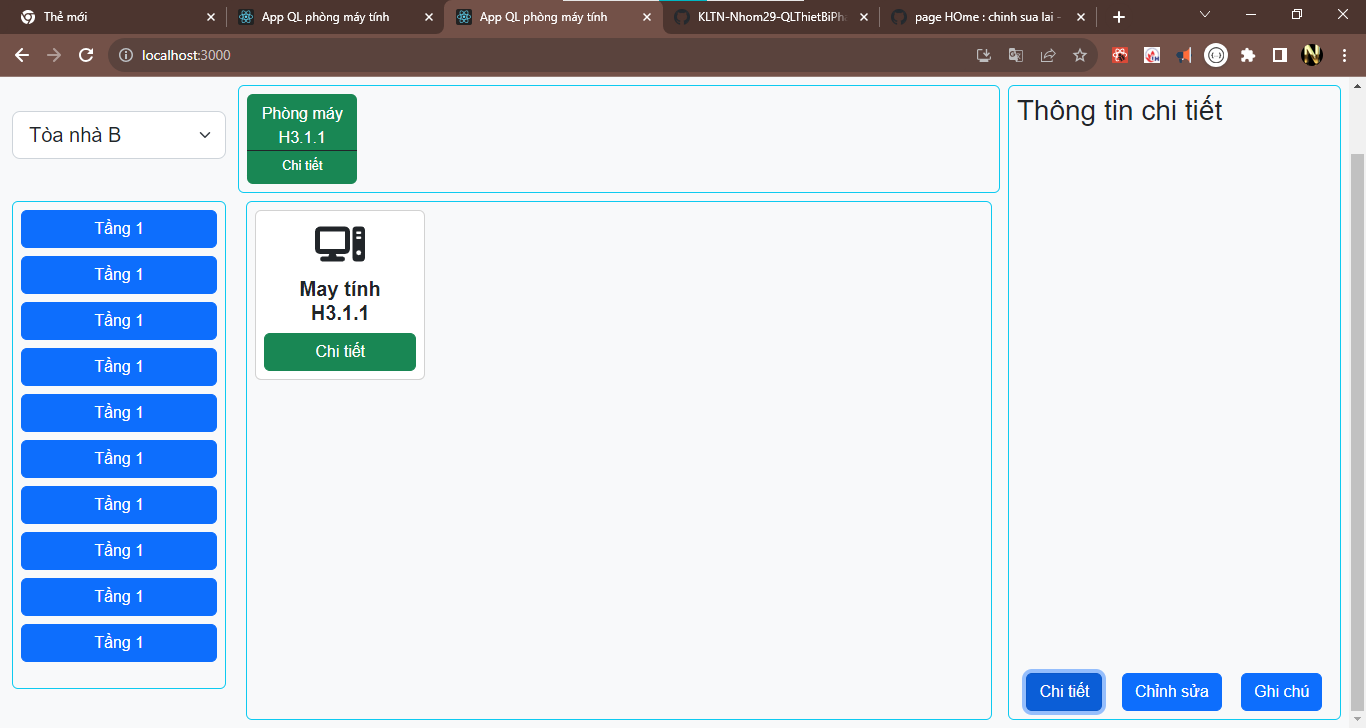
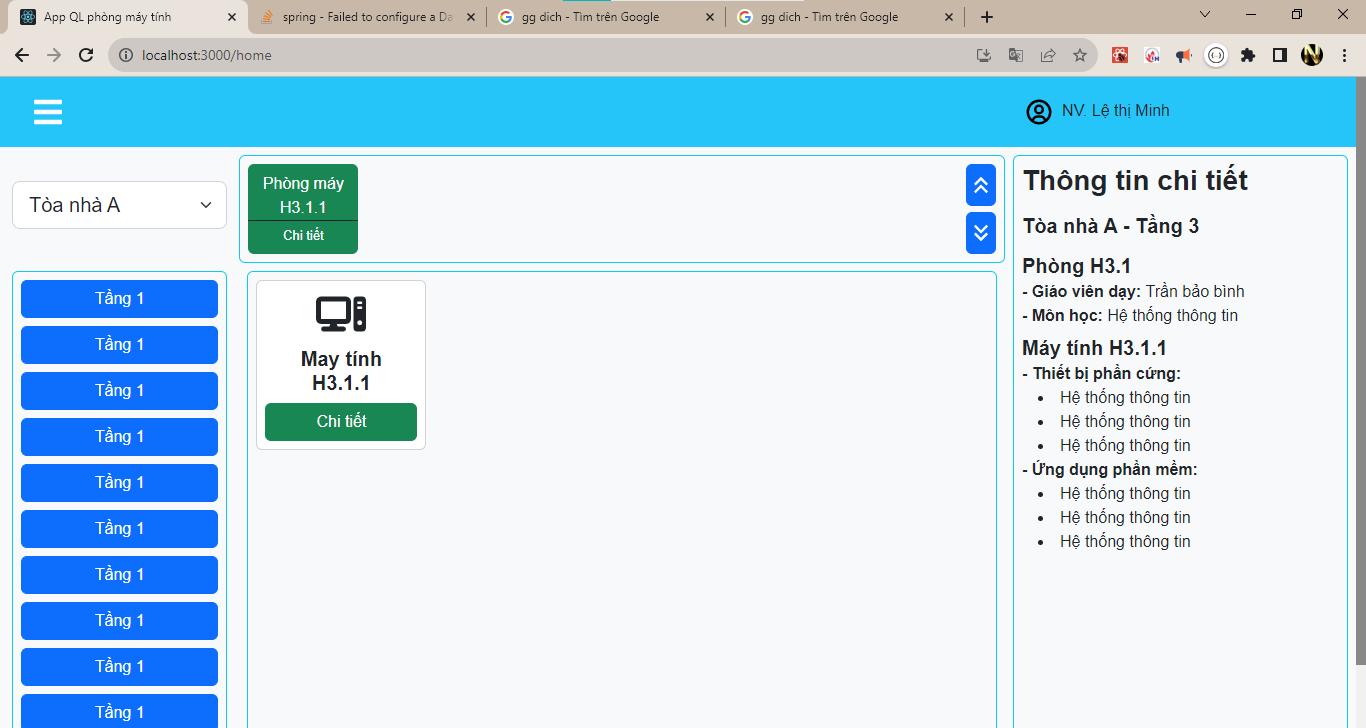
finish login - data api - data store

diff --git a/src/redux/reducers/userReducer.jsx b/src/redux/reducers/userReducer.jsx
@@ -1,15 +1,24 @@
 //rxslice
 
 import { createSlice } from "@reduxjs/toolkit";
-import { ACCESS_TOKEN, USER_LOGIN, getStoreJSON, http, setCookie, setStore, setStoreJSON } from "../../util/config";
+import {
+  ACCESS_TOKEN,
+  USER_LOGIN,
+  clearLocalStorage,
+  getStoreJSON,
+  http,
+  setCookie,
+  setStore,
+  setStoreJSON,
+} from "../../util/config";
 import { history } from "../..";
 
 const initialState = {
-    // userLogin: {
+  // userLogin: {
   //     email: '',
   //     accessToken: ''
   // },
-  userLogin: getStoreJSON(USER_LOGIN),
+  userLogin: {},
 };
 
 const userReducer = createSlice({
@@ -29,25 +38,37 @@ export const getDangNhapApi = (userLogin) => {
   // userLogin = { username: '', password: '', }
 
   let user = {
-    tenDangNhap:userLogin.username,
-    matKhau:userLogin.password
-  }
+    tenDangNhap: userLogin.username,
+    matKhau: userLogin.password,
+  };
   return async (dispatch) => {
     try {
       let result = await http.post("/DangNhap", user);
 
       //   setStore(ACCESS_TOKEN, result.data.content.accessToken);
-    //   setCookie(result.data.content.accessToken, 30, ACCESS_TOKEN);
+      //   setCookie(result.data.content.accessToken, 30, ACCESS_TOKEN);
 
-    // luu lai username - token
-    let{quyen, tenDangNhap} = result.data
-    setStoreJSON(USER_LOGIN, {quyen, tenDangNhap});
+      // luu lai username - token
 
-    // dua len reducer
-    const action = setUserLoginAction(result.data);
-    dispatch(action);
+      let { maTK, tenDangNhap, quyen } = result.data;
+      let resultUser = {};
+      let userLogin = { maTK, tenDangNhap, quyen };
+      if (quyen.tenQuyen.toLowerCase().includes("Giáo viên".toLowerCase())) {
+        resultUser = await http.get(`/GiaoVien/${maTK}`);
+        userLogin = { ...userLogin, name: resultUser.data.hoTen };
+      } else {
+        resultUser = await http.get(`/NhanVien/${maTK}`);
+        userLogin = { ...userLogin, name: resultUser.data.tenNV };
+      }
 
-    history.push("/home");
+      setStoreJSON(USER_LOGIN, userLogin);
+
+      // dua len reducer
+      const action = setUserLoginAction(resultUser.data);
+      // const action = setUserLoginAction({});
+      dispatch(action);
+
+      history.push("/home");
     } catch (error) {
       console.log(
         "🚀 ~ file: userReducer.jsx:31 ~ returnasync ~ error:",
@@ -59,3 +80,29 @@ export const getDangNhapApi = (userLogin) => {
     }
   };
 };
+
+
+export const getUserLoginApi = (userStore) => {
+  return  async (dispatch) => {
+      let {maTK, quyen} = userStore;
+      let resultUser = {};
+
+      if (quyen.tenQuyen.toLowerCase().includes("Giáo viên".toLowerCase())) {
+        resultUser = await http.get(`/GiaoVien/${maTK}`);
+      } else {
+        resultUser = await http.get(`/NhanVien/${maTK}`);
+      }
+
+      const action = setUserLoginAction(resultUser.data);
+      dispatch(action);
+  }
+
+}
+
+export const eventLogout = () => {
+  return async(dispatch) => {
+    clearLocalStorage(USER_LOGIN);
+
+    dispatch(setUserLoginAction({}));
+  }
+}

diff --git a/src/components/common/SideBar/SideBar.jsx b/src/components/common/SideBar/SideBar.jsx
@@ -1,6 +1,6 @@
-import React, { useState } from "react";
+import React, { useEffect, useState } from "react";
 import styled from "styled-components";
-import { Link } from "react-router-dom";
+import { Link, useNavigate } from "react-router-dom";
 import * as FaIcons from "react-icons/fa";
 import * as AiIcons from "react-icons/ai";
 import * as BiIcons from "react-icons/bi";
@@ -8,7 +8,13 @@ import * as RiIcons from "react-icons/ri";
 import { SidebarData } from "./SidebarData";
 import SubMenu from "./SubMenu.jsx";
 import { IconContext } from "react-icons/lib";
-import { useSelector } from "react-redux";
+import { useDispatch, useSelector } from "react-redux";
+import {
+  USER_LOGIN,
+  formatNameByHocVi,
+  getStoreJSON,
+} from "../../../util/config";
+import { getUserLoginApi } from "../../../redux/reducers/userReducer";
 
 const Nav = styled.div`
   background: #15171c;
@@ -57,8 +63,48 @@ const SidebarWrap = styled.div`
 `;
 
 const Sidebar = () => {
+  const navigate = useNavigate();
+  const dispatch = useDispatch();
+
   let { userLogin } = useSelector((state) => state.userReducer);
-  let { tenDangNhap, quyen } = userLogin;
+
+  useEffect(() => {
+    // truong hop redux khogn co data
+    if (Object.keys(userLogin).length === 0) {
+      // lay dât ở store
+      let userStore = getStoreJSON(USER_LOGIN);
+
+      // kiem tra data o store
+      if (Object.keys(userStore).length === 0) {
+        // TH Store khong co data
+        navigate("/login");
+      } else {
+        // TH co data thi call theo maTK de tim thong tin nguoi dung
+        dispatch(getUserLoginApi(userStore));
+      }
+    }
+  }, []);
+
+  // render
+  const renderNameLogin = () => {
+    if (Object.keys(userLogin).length === 0) {
+      return "admin";
+    }
+    let { quyen } = userLogin.taiKhoan;
+
+    if (quyen.tenQuyen.toLowerCase().includes("Giáo viên".toLowerCase())) {
+      let gv = {
+        hocVi: userLogin.hocVi,
+        name: userLogin.hoTen,
+      };
+      return formatNameByHocVi(gv);
+    } else {
+      if (userLogin.chucVu.tenCV.toLowerCase().includes(("quản lý").toLowerCase())) {
+        return 'QL. '+ userLogin.tenNV;
+      }
+      return 'NV. '+userLogin.tenNV;
+    }
+  };
 
   //set user nao su dung, khong co thi day ve trang login
 
@@ -78,7 +124,7 @@ const Sidebar = () => {
               className="me-2"
               style={{ fontSize: "30px", color: "black" }}
             />
-            {userLogin.tenDangNhap}
+            <span>{renderNameLogin()}</span>
           </div>
         </Nav>
         <Overlay sidebar={sidebar} onClick={showSidebar} />
@@ -102,6 +148,8 @@ const Sidebar = () => {
                 ),
               }}
               key={"index"}
+
+              
             />
           </SidebarWrap>
         </SidebarNav>

diff --git a/src/util/config.js b/src/util/config.js
@@ -28,7 +28,7 @@ export const configs = {
 
       return content;
     }
-    return null;
+    return {};
   },
   /**
    * luu theo cookie
